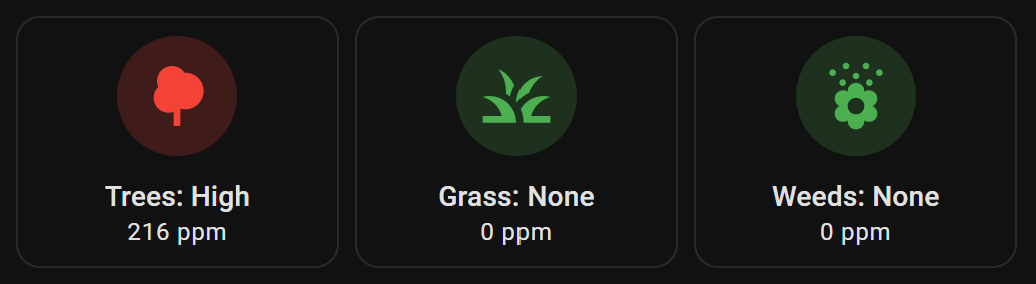
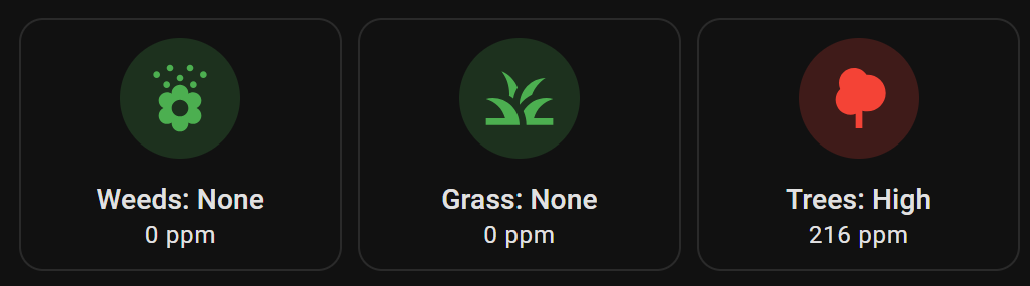
pollen: fix yaml with new HA version

diff --git a/homeassistant/homeassistant_hacs_kleenex.md b/homeassistant/homeassistant_hacs_kleenex.md
@@ -9,7 +9,7 @@ image: /homeassistant/images_kleenex/kleenex_advanced_presentation_high.jpg
 # Home Assistant -<br>HACS Kleenex Pollen Radar
 
 <a href="images_kleenex/kleenex_advanced_presentation.png">
-<img src="images_kleenex/kleenex_advanced_presentation_high.jpg" width="50%" alt="advanced Kleenx pollen">
+<img src="images_kleenex/kleenex_advanced_presentation.png" width="50%" alt="advanced Kleenx pollen">
 </a>
 <a href="index"><img src="images/home_assistant_logo.png" style="float: right;margin-left:20px" alt="Home Assistant logo" height="100px"></a>
 
@@ -164,11 +164,11 @@ This is a default presentation with the entities card.
 {% raw %}
 # Sourcecode by vdbrink.github.io
 # Entities Card Configuration
-type: entities
-entities:
-  - sensor.kleenex_pollen_radar_huis_grass
-  - sensor.kleenex_pollen_radar_huis_trees
-  - sensor.kleenex_pollen_radar_huis_weeds
+    type: entities
+    entities:
+      - sensor.kleenex_pollen_radar_huis_grass
+      - sensor.kleenex_pollen_radar_huis_trees
+      - sensor.kleenex_pollen_radar_huis_weeds
 {% endraw %}
 ```
 
@@ -196,20 +196,24 @@ Install the integration via this button:
 type: grid
 cards:
   - type: custom:mushroom-template-card
-    primary: >-
-      Trees: {% set level =
-      states('sensor.kleenex_pollen_radar_huis_trees')|int(0) %} {% if level ==
-      0 %} None {% elif level <= 95 %} Low {% elif level <= 207 %} Moderate  {%
-      elif level <= 703 %} High {% else %} very High {% endif %}
-    secondary: "{{ states('sensor.kleenex_pollen_radar_huis_trees') }} ppm"
-    icon: mdi:tree
+    primary: |-
+      Weeds:
+      {% set level = states('sensor.kleenex_pollen_radar_huis_weeds')|int(0) %}
+      {% if level == 0 %} None
+      {% elif level <= 20 %} Low
+      {% elif level <= 77 %} Moderate 
+      {% elif level <= 266 %} High
+      {% else %} very High
+      {% endif %}
+    secondary: "{{ states('sensor.kleenex_pollen_radar_huis_weeds') }} ppm"
+    icon: mdi:flower-pollen
     icon_color: |-
       {% set level =
-       states('sensor.kleenex_pollen_radar_huis_trees')|int(0) %} {% if level ==
-       0 %} green {% elif level <= 95 %} yellow {% elif level <= 207 %} orange  {%
-       elif level <= 703 %} red {% else %} maroon {% endif %}
+      states('sensor.kleenex_pollen_radar_huis_weeds')|int(0) %} {% if level ==
+      0 %} green {% elif level <= 95 %} yellow {% elif level <= 207 %} orange  {%
+      elif level <= 703 %} red {% else %} maroon {% endif %}
     layout: vertical
-    entity: sensor.kleenex_pollen_radar_huis_trees
+    entity: sensor.kleenex_pollen_radar_huis_weeds
     multiline_secondary: false
     tap_action:
       action: more-info
@@ -250,24 +254,20 @@ cards:
           background-color: hsla(0, 0%, 0%, 0);
         }
   - type: custom:mushroom-template-card
-    primary: |-
-      Weeds:
-      {% set level = states('sensor.kleenex_pollen_radar_huis_weeds')|int(0) %}
-      {% if level == 0 %} None
-      {% elif level <= 20 %} Low
-      {% elif level <= 77 %} Moderate 
-      {% elif level <= 266 %} High
-      {% else %} very High
-      {% endif %}
-    secondary: "{{ states('sensor.kleenex_pollen_radar_huis_weeds') }} ppm"
-    icon: mdi:flower-pollen
+    primary: >-
+      Trees: {% set level =
+      states('sensor.kleenex_pollen_radar_huis_trees')|int(0) %} {% if level ==
+      0 %} None {% elif level <= 95 %} Low {% elif level <= 207 %} Moderate  {%
+      elif level <= 703 %} High {% else %} very High {% endif %}
+    secondary: "{{ states('sensor.kleenex_pollen_radar_huis_trees') }} ppm"
+    icon: mdi:tree
     icon_color: |-
       {% set level =
-      states('sensor.kleenex_pollen_radar_huis_weeds')|int(0) %} {% if level ==
-      0 %} green {% elif level <= 95 %} yellow {% elif level <= 207 %} orange  {%
-      elif level <= 703 %} red {% else %} maroon {% endif %}
+       states('sensor.kleenex_pollen_radar_huis_trees')|int(0) %} {% if level ==
+       0 %} green {% elif level <= 95 %} yellow {% elif level <= 207 %} orange  {%
+       elif level <= 703 %} red {% else %} maroon {% endif %}
     layout: vertical
-    entity: sensor.kleenex_pollen_radar_huis_weeds
+    entity: sensor.kleenex_pollen_radar_huis_trees
     multiline_secondary: false
     tap_action:
       action: more-info
@@ -556,7 +556,6 @@ cards:
       columns: 3
       rows: 2
     vertical: true
-    features_position: bottom
     card_mod:
       style:
         ha-tile-icon: >
@@ -564,7 +563,7 @@ cards:
           {% set details = state_attr('sensor.kleenex_pollen_radar_huis_trees', 'details') %} 
           {% set item = details | selectattr('name', 'eq', input_name) | first() %} 
           {% set level = item.level | default('N/A') %}  
-          {% set color_map = {'none: 'green', 'low': 'yellow', 'moderate': 'orange', 'high': 'red', 'very high': 'maroon'} %} 
+          {% set color_map = {'none': 'green', 'low': 'green', 'moderate': 'orange', 'high': 'red', 'very high': 'maroon'} %} 
           {% set level_color = color_map.get(level, 'gray') %}
 
           ha-state-icon {
@@ -595,7 +594,6 @@ cards:
       columns: 3
       rows: 2
     vertical: true
-    features_position: bottom
     card_mod:
       style:
         ha-tile-icon: >
@@ -603,7 +601,7 @@ cards:
           {% set details = state_attr('sensor.kleenex_pollen_radar_huis_trees', 'details') %} 
           {% set item = details | selectattr('name', 'eq', input_name) | first() %} 
           {% set level = item.level | default('N/A') %}  
-          {% set color_map = {'none: 'green', 'low': 'yellow', 'moderate': 'orange', 'high': 'red', 'very high': 'maroon'} %} 
+          {% set color_map = {'none': 'green', 'low': 'green', 'moderate': 'orange', 'high': 'red', 'very high': 'maroon'} %} 
           {% set level_color = color_map.get(level, 'gray') %}
 
           ha-state-icon {
